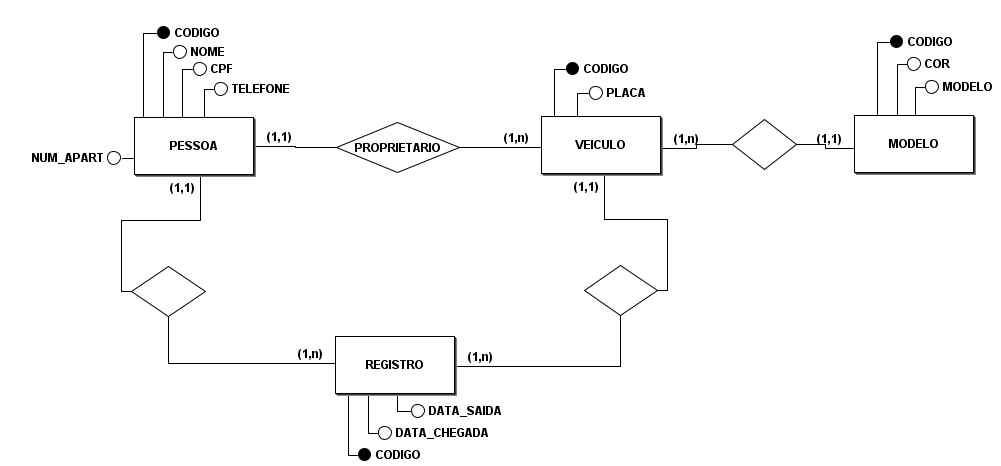
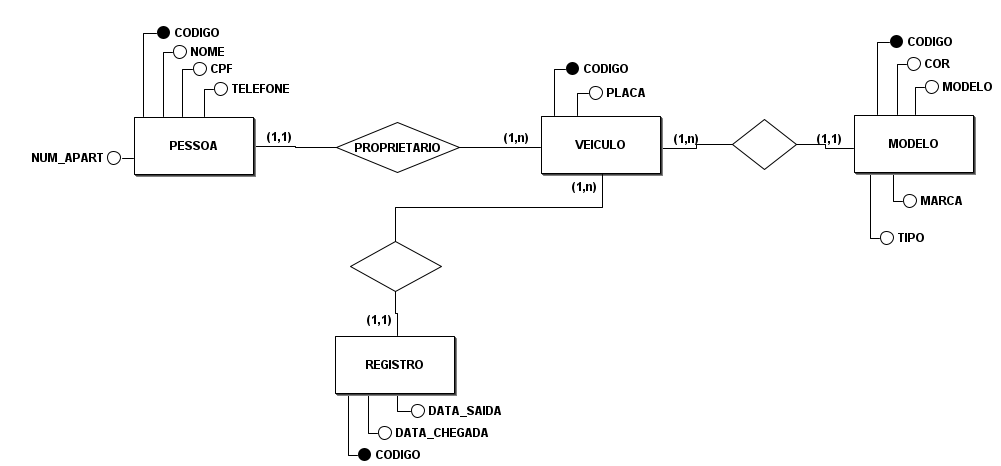
Alterações descritas no README.me

diff --git a/cadastro-veiculo.html b/cadastro-veiculo.html
@@ -2,56 +2,107 @@
 <html lang="pt-br">
 
 <head>
-    <meta charset="UTF-8">
-    <meta http-equiv="X-UA-Compatible" content="IE=edge">
-    <meta name="viewport" content="width=device-width, initial-scale=1.0">
-    <link href="https://cdn.jsdelivr.net/npm/bootstrap@5.1.3/dist/css/bootstrap.min.css" rel="stylesheet"
-        integrity="sha384-1BmE4kWBq78iYhFldvKuhfTAU6auU8tT94WrHftjDbrCEXSU1oBoqyl2QvZ6jIW3" crossorigin="anonymous">
-    <link rel="stylesheet" href="css/index.css">
-    <title>Estacionamento de Veiculos</title>
+  <meta charset="UTF-8">
+  <meta http-equiv="X-UA-Compatible" content="IE=edge">
+  <meta name="viewport" content="width=device-width, initial-scale=1.0">
+  <link href="https://cdn.jsdelivr.net/npm/bootstrap@5.1.3/dist/css/bootstrap.min.css" rel="stylesheet"
+    integrity="sha384-1BmE4kWBq78iYhFldvKuhfTAU6auU8tT94WrHftjDbrCEXSU1oBoqyl2QvZ6jIW3" crossorigin="anonymous">
+  <link rel="stylesheet" href="css/index.css">
+  <title>Estacionamento de Veiculos</title>
 </head>
 
 <body>
-    <header class="cabecalho">
-        <nav class="navbar navbar-expand-md navbar-light">
-            <div class="container-fluid">
-              <a class="navbar-brand" href="/index.html"><img src="img/UFSM_principal_cor.png" alt=""></a>
-              <button class="navbar-toggler" type="button" data-bs-toggle="collapse" data-bs-target="#navbarNav" aria-controls="navbarNav" aria-expanded="false" aria-label="Toggle navigation">
-                <span class="navbar-toggler-icon"></span>
-              </button>
-              <div class="collapse navbar-collapse justify-content-end" id="navbarNav">
-                <ul class="navbar-nav mr-auto">
-                  <li class="nav-item">
-                    <a class="nav-link active" aria-current="page" href="/index.html">Inicio</a>
-                  </li>
-                  <li class="nav-item">
-                    <a class="nav-link" href="/cadastro-pessoa.html">Cadastrar Pessoas</a>
-                  </li>
-                  <li class="nav-item">
-                    <a class="nav-link" href="/cadastro-veiculo.html">Cadastrar Veiculos</a>
-                  </li>
-                </ul>
+  <header class="cabecalho">
+    <nav class="navbar navbar-expand-md navbar-light">
+      <div class="container-fluid">
+        <a class="navbar-brand" href="/index.html"><img src="img/UFSM_principal_cor.png" alt=""></a>
+        <button class="navbar-toggler" type="button" data-bs-toggle="collapse" data-bs-target="#navbarNav"
+          aria-controls="navbarNav" aria-expanded="false" aria-label="Toggle navigation">
+          <span class="navbar-toggler-icon"></span>
+        </button>
+        <div class="collapse navbar-collapse justify-content-end" id="navbarNav">
+          <ul class="navbar-nav mr-auto">
+            <li class="nav-item">
+              <a class="nav-link active" aria-current="page" href="/index.html">Inicio</a>
+            </li>
+            <li class="nav-item">
+              <a class="nav-link" href="/cadastro-pessoa.html">Cadastrar Pessoas</a>
+            </li>
+            <li class="nav-item">
+              <a class="nav-link" href="/cadastro-veiculo.html">Cadastrar Veiculos</a>
+            </li>
+          </ul>
+        </div>
+      </div>
+    </nav>
+  </header>
+  <section class="corpo">
+    <div class="container-fluid">
+      <div class="cad-pessoa">
+        <h4>FORMULÁRIO DE CADASTRO DE VEICULOS!!</h4>
+        <div class="cad-modelo">
+          <!-- Button trigger modal -->
+          <button type="button" class="btn btn-secondary" data-bs-toggle="modal"
+            data-bs-target="#staticBackdrop">Cadastro Modelo</button>
+          <!-- Modal -->
+          <div class="modal fade" id="staticBackdrop" data-bs-backdrop="static" data-bs-keyboard="false" tabindex="-1"
+            aria-labelledby="staticBackdropLabel" aria-hidden="true">
+            <div class="modal-dialog">
+              <div class="modal-content">
+                <div class="modal-header">
+                  <h5 class="modal-title" id="staticBackdropLabel">Cadastro de Modelo</h5>
+                  <button type="button" class="btn-close" data-bs-dismiss="modal" aria-label="Close"></button>
+                </div>
+                <div class="modal-body">
+                  <form id="formulario" name="formulario">
+                    <label for="" class="form-label">Informe a Marca:</label>
+                    <input type="text" id="marca" placeholder="Marca" class="form-control">
+                    <label for="" class="form-label">Informe o Modelo:</label>
+                    <input type="text" id="modelo" placeholder="Modelo" class="form-control">
+                    <label for="" class="form-label">Informe a Cor:</label>
+                    <input type="text" id="cor" placeholder="Cor" class="form-control">
+                    <label for="" class="form-label">Informe o Tipo "Sedan/Hatch":</label>
+                    <select class="form-select" aria-label="Default select example">
+                      <option selected>Escolha uma Opção</option>
+                      <option value="1">Sedan</option>
+                      <option value="2">Hatch</option>
+                      <option value="3">Motocicleta*</option>
+                    </select>
+                    <button id="enviar" type="submit" class="btn btn-outline-secondary">Enviar</button>
+                  </form>
+                </div>
+                <div class="modal-footer">
+                  <button type="button" class="btn btn-secondary" data-bs-dismiss="modal">Fechar</button>
+                </div>
               </div>
             </div>
-          </nav>
-    </header>
-    <section class="corpo">
-        <div class="container-fluid">
-            <div class="cad-pessoa">
-                <h4>FORMULARIO DE CADASTRO DE VEICULOS!!</h4>
-                <div class="form-pessoa">
-
-                </div>
-            </div>
+          </div>
         </div>
-    </section>
-    <footer class="rodape">
-        <div class="container-fluid">
-            <p> Desenvolvido por:</p>
+        <div class="cad-veiculo">
+          <form id="formulario" name="formulario">
+            <label for="" class="form-label">Informe a placa do veiculo:</label>
+            <input type="number" id="placa" placeholder="Placa" class="form-control">
+            <label for="" class="form-label">Modelo do veiculo:</label>
+            <select class="form-select" aria-label="Default select example">
+              <option selected>Escolha uma Opção</option>
+              <option value="1">Fiat/Uno/Vermelho/Sedan</option>
+              <option value="2">Fiat/Palio/Branco/Hatch</option>
+              <option value="3">Ford/Focus/Preto/Hatch</option>
+            </select>
+            <button id="enviar" type="submit" class="btn btn-outline-secondary">Enviar</button>
+          </form>
         </div>
-    </footer>
-    <script src="https://cdn.jsdelivr.net/npm/bootstrap@5.1.3/dist/js/bootstrap.bundle.min.js"
-        integrity="sha384-ka7Sk0Gln4gmtz2MlQnikT1wXgYsOg+OMhuP+IlRH9sENBO0LRn5q+8nbTov4+1p"
-        crossorigin="anonymous"></script>
+      </div>
+    </div>
+  </section>
+  <footer class="rodape">
+    <div class="container-fluid">
+      <p> Desenvolvido por:</p>
+    </div>
+  </footer>
+  <script src="https://cdn.jsdelivr.net/npm/bootstrap@5.1.3/dist/js/bootstrap.bundle.min.js"
+    integrity="sha384-ka7Sk0Gln4gmtz2MlQnikT1wXgYsOg+OMhuP+IlRH9sENBO0LRn5q+8nbTov4+1p"
+    crossorigin="anonymous"></script>
 </body>
+
 </html>

diff --git a/index.html b/index.html
@@ -37,13 +37,37 @@
     </nav>
   </header>
   <section class="corpo">
-    <div class="container-fluid">      
+    <div class="container-fluid">
       <div class="registro-veiculo">
         <h4>REGISTRO DE VEICULO!!</h4>
+        <form id="formulario" name="formulario">
+          <div>
+            <label for="" class="form-label">Escolha a Placa do Veiculo:</label>
+            <select class="form-select" aria-label="Default select example">
+              <option selected>Escolha uma Opção</option>
+              <option value="1">Placa veiculo 1</option>
+              <option value="2">Placa veiculo 2</option>
+              <option value="3">Placa veiculo 3</option>
+            </select>
+          </div>
+          <div>
+            <label for="" class="form-label">Entrada ou Saida de Veiculo:</label>
+            <select class="form-select" aria-label="Default select example">
+              <option selected>Escolha uma Opção</option>
+              <option value="1">Entrada</option>
+              <option value="2">Saida</option>
+            </select>
+          </div>
+          <div>
+            <button id="enviar" type="submit" class="btn btn-outline-secondary">Enviar</button>
+          </div>
+        </form>
       </div>
+      <!--
       <div class="amostra-carros">
         <h4>LISTA DE CARROS NO ESTACIONAMNETO!!</h4>
-      </div>      
+      </div>
+      -->
     </div>
   </section>
   <footer class="rodape">

diff --git a/cadastro-pessoa.html b/cadastro-pessoa.html
@@ -38,10 +38,18 @@
     <section class="corpo">
         <div class="container-fluid">
             <div class="cad-pessoa">
-                <h4>FORMULARIO DE CADASTRO DE PESSOA!!</h4>
-                <div class="form-pessoa">
-
-                </div>
+                <h4>FORMULÁRIO DE CADASTRO DE PESSOA!!</h4>
+                <form id="formulario" name="formulario">
+                  <label for="" class="form-label">Informe seu nome:</label>
+                  <input type="text" id="nome" placeholder="Nome" class="form-control">
+                  <label for="" class="form-label">Informe seu CPF:</label>
+                  <input type="number" id="cpf" placeholder="CPF" class="form-control">
+                  <label for="" class="form-label">Informe seu telefone:</label>
+                  <input type="tel" id="telefone" placeholder="Telefone" class="form-control">
+                  <label for="" class="form-label">Informe o numero do apartamento:</label>
+                  <input type="text" id="num_apart" placeholder="Numero do Apartamento" class="form-control">
+                  <button id="enviar" type="submit" class="btn btn-outline-secondary">Enviar</button>
+                </form>
             </div>
         </div>
     </section>

diff --git a/css/index.css b/css/index.css
@@ -72,6 +72,12 @@ body{
     padding-top: 20px;
 
 }
+.registro-veiculo #formulario{
+    display: flex;
+    flex-direction: row;
+    justify-content: center;
+    align-items: flex-end;
+}
 /*Rodape ---------------------------------------------*/
 .rodape{
     background-color: rgb(22, 22, 22);

diff --git a/README.md b/README.md
@@ -1,6 +1,9 @@
 # estacionamento-veiculos-dw  
 #### Realise 0.0.1
-##### Criação as paginas "Inicio, Cadastro de Pessoas e Cadastro de Veiculos".  
-##### Configuração da estilização/responsividade das 3 paginas concluida.  
-##### Adicionado ao repositório modelo conceitual e lógico do banco de dados.  
-##### Mudança nas cores de fonts, borders -> #9d4edd
+- Criação as paginas "Inicio, Cadastro de Pessoas e Cadastro de Veiculos".  
+- Configuração da estilização/responsividade das 3 paginas concluida.  
+- Adicionado ao repositório modelo conceitual e lógico do banco de dados.  
+- Mudança nas cores de fonts, borders -> #9d4edd  
+- Modelos conceitual e lógico alterados.  
+- Inserção de formulários de cadastro nas paginas cadastro de pessoas, cadastro de veiculos.  
+- Inserção de modal com cadastro de modelo, botão na pagina cadastro de veiculos.
